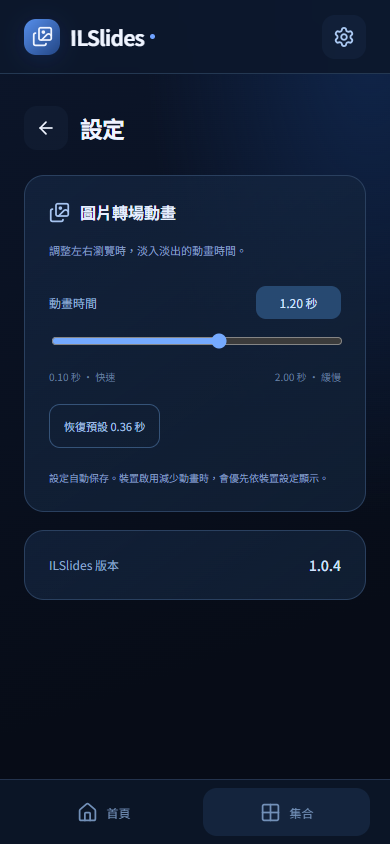
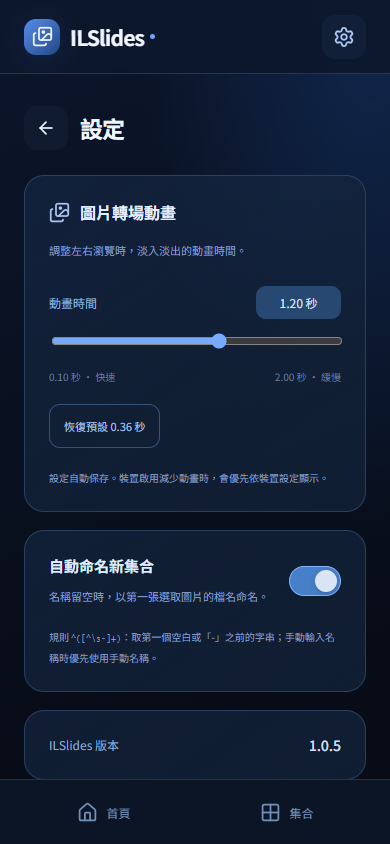
v1.0.5: 新增自動命名設定與編輯集合回頂部按鈕

Changed region(s): [[0.0615, 0.6469, 0.9538, 0.9242]]

diff --git a/src/App.vue b/src/App.vue
@@ -3,7 +3,7 @@ import { computed, ref, watch, onMounted, onUnmounted } from 'vue'
 import { Capacitor } from '@capacitor/core'
 import { App as NativeApp } from '@capacitor/app'
 import { Plus, ArrowLeft, ArrowRight, FolderOpen, Images, X, Pencil, Trash2, ChevronRight, ArrowUp, Grid2X2, Check, Search, Settings, Home, ArrowUpDown } from 'lucide-vue-next'
-import { Folders, loadCollections, loadFolders, uniquePhotos, sortedPhotos, nextIndex, type Collection, type Photo, type SourceFolder } from './library'
+import { Folders, loadCollections, loadFolders, uniquePhotos, suggestCollectionName, sortedPhotos, nextIndex, type Collection, type Photo, type SourceFolder } from './library'
 import PhotoThumb from './PhotoThumb.vue'
 import CoverEditor from './CoverEditor.vue'
 import { drawCover, type CoverSettings } from './cover'
@@ -44,6 +44,8 @@ const name = ref('')
 const selectedFolder = ref<SourceFolder | null>(null)
 const folderPhotos = ref<Photo[]>([])
 const draftPhotos = ref<Photo[]>([])
+const suggestedName = computed(() => !editId.value && preferences.value.autoName ? suggestCollectionName(draftPhotos.value[0]?.name) : '')
+const collectionName = computed(() => name.value.trim() || suggestedName.value)
 const folderBusy = ref(false)
 let folderRequest = 0
 const controls = ref(true)
@@ -143,10 +145,10 @@ function selected(uri:string) { return draftPhotos.value.some(p=>p.uri===uri) }
 function toggle(p:Photo) { draftPhotos.value=selected(p.uri) ? draftPhotos.value.filter(v=>v.uri!==p.uri) : [...draftPhotos.value,p] }
 function selectAll() { draftPhotos.value=uniquePhotos([...draftPhotos.value,...folderPhotos.value]) }
 async function save() {
-  if(!name.value.trim() || !draftPhotos.value.length || busy.value) return
+  if(!collectionName.value || !draftPhotos.value.length || busy.value) return
   const existing=collections.value.find(c=>c.id===editId.value)
   const now=Date.now()
-  const c:Collection={createdAt:existing ? existing.createdAt : now,updatedAt:now,id:editId.value || crypto.randomUUID(),name:name.value.trim(),photos:uniquePhotos(draftPhotos.value),...(draftCover.value && selected(draftCover.value.uri) ? {cover:{...draftCover.value}} : {})}
+  const c:Collection={createdAt:existing ? existing.createdAt : now,updatedAt:now,id:editId.value || crypto.randomUUID(),name:collectionName.value,photos:uniquePhotos(draftPhotos.value),...(draftCover.value && selected(draftCover.value.uri) ? {cover:{...draftCover.value}} : {})}
   const pos=collections.value.findIndex(v=>v.id===c.id)
   if(pos<0) collections.value.push(c); else collections.value[pos]=c
   modal.value=false; ++folderRequest
@@ -184,7 +186,7 @@ onUnmounted(() => { window.removeEventListener('keydown',keyboard); window.remov
 <template>
   <main v-if="!active" class="library">
     <header class="topbar"><a class="brand" href="#/home" aria-label="ILSlides 首頁" @click.prevent="navigate('home')"><span class="brand-icon"><Images :size="21" /></span>ILSlides<span class="brand-dot"></span></a><button class="icon-button settings-button" @click="navigate('settings')" aria-label="開啟設定"><Settings :size="22" /></button></header>
-    <section v-if="page==='settings'" class="settings-page"><div class="settings-heading"><button class="icon-button" @click="navigate(settingsReturn)" aria-label="返回設定前頁面"><ArrowLeft :size="20" /></button><h1>設定</h1></div><section class="setting-card"><div class="setting-title"><Images :size="21" /><h2>圖片轉場動畫</h2></div><p>調整左右瀏覽時，淡入淡出的動畫時間。</p><div class="duration-label"><label for="transition-duration">動畫時間</label><output>{{ (preferences.transitionMs/1000).toFixed(2) }} 秒</output></div><input id="transition-duration" type="range" min="100" max="2000" step="20" :value="preferences.transitionMs" @input="preferences.transitionMs=transitionTime(Number(($event.target as HTMLInputElement).value))" /><div class="duration-scale"><span>0.10 秒 · 快速</span><span>2.00 秒 · 緩慢</span></div><button class="reset-setting" @click="preferences.transitionMs=360">恢復預設 0.36 秒</button><p class="setting-note">設定自動保存。裝置啟用減少動畫時，會優先依裝置設定顯示。</p></section><section class="setting-card version-card"><span>ILSlides 版本</span><strong>{{ version }}</strong></section></section>
+    <section v-if="page==='settings'" class="settings-page"><div class="settings-heading"><button class="icon-button" @click="navigate(settingsReturn)" aria-label="返回設定前頁面"><ArrowLeft :size="20" /></button><h1>設定</h1></div><section class="setting-card"><div class="setting-title"><Images :size="21" /><h2>圖片轉場動畫</h2></div><p>調整左右瀏覽時，淡入淡出的動畫時間。</p><div class="duration-label"><label for="transition-duration">動畫時間</label><output>{{ (preferences.transitionMs/1000).toFixed(2) }} 秒</output></div><input id="transition-duration" type="range" min="100" max="2000" step="20" :value="preferences.transitionMs" @input="preferences.transitionMs=transitionTime(Number(($event.target as HTMLInputElement).value))" /><div class="duration-scale"><span>0.10 秒 · 快速</span><span>2.00 秒 · 緩慢</span></div><button class="reset-setting" @click="preferences.transitionMs=360">恢復預設 0.36 秒</button><p class="setting-note">設定自動保存。裝置啟用減少動畫時，會優先依裝置設定顯示。</p></section><section class="setting-card auto-name-setting"><div class="setting-toggle-row"><div><h2>自動命名新集合</h2><p>名稱留空時，以第一張選取圖片的檔名命名。</p></div><button role="switch" aria-label="自動命名新集合" :aria-checked="preferences.autoName" :class="{enabled:preferences.autoName}" @click="preferences.autoName=!preferences.autoName"><span></span></button></div><p class="setting-note">規則 <code>^([^\s-]+)</code>：取第一個空白或「-」之前的字串；手動輸入名稱時優先使用手動名稱。</p></section><section class="setting-card version-card"><span>ILSlides 版本</span><strong>{{ version }}</strong></section></section>
     <template v-else>
     <section v-if="page==='home'" class="stats"><div><strong>{{ collections.length.toString().padStart(2,'0') }}</strong><span>圖片集合</span></div><div class="stat-divider"></div><div><strong>{{ total.toLocaleString() }}</strong><span>張照片</span></div><span class="offline"><span></span>僅在裝置上讀取</span></section>
     <section v-if="page==='collections'" class="source-section"><div class="source-heading"><span><FolderOpen :size="15" />常用資料夾</span><button @click="edit()">管理／挑選圖片<ChevronRight :size="15" /></button></div><div class="folder-chips"><button v-for="f in folders" :key="f.uri" @click="edit(undefined,f)"><FolderOpen :size="14" />{{ f.name }}</button><button v-if="!folders.length" @click="edit()"><Plus :size="14" />記住圖片資料夾</button></div></section>
@@ -214,6 +216,7 @@ onUnmounted(() => { window.removeEventListener('keydown',keyboard); window.remov
       <div class="sheet-handle"></div><div class="sheet-heading"><div><span class="eyebrow">CURATE YOUR COLLECTION</span><h2 id="sheet-title">{{ editId ? '編輯集合' : '建立新的集合' }}</h2></div><button class="icon-button" @click="modal=false" aria-label="關閉"><X :size="21" /></button></div>
       <div class="editor-scroll-wrap"><div ref="editorScroll" class="editor-scroll" @scroll.passive="updateEditorScroll">
         <label class="field-label" for="collection-name">集合名稱</label><input id="collection-name" v-model="name" maxlength="60" placeholder="例如：旅行片刻、日常光影" />
+        <p v-if="!editId && !name.trim() && draftPhotos.length" class="auto-name-hint">{{ suggestedName ? '將自動命名為：' + suggestedName : preferences.autoName ? '檔名無法套用規則，請輸入集合名稱。' : '自動命名已停用，請輸入集合名稱。' }}</p>
         <label class="field-label">集合封面</label><button class="folder-select" :disabled="!draftPhotos.length" @click="coverEditor=true"><Images :size="23" /><span><strong>{{ draftCover && selected(draftCover.uri) ? '調整已選封面' : '選擇封面與調整視窗' }}</strong><small>從集合圖片挑選，拖曳及縮放封面範圍</small></span><ChevronRight :size="18" /></button>
         <label class="field-label">常用資料夾</label>
         <div class="folder-chips"><button v-for="f in folders" :key="f.uri" :class="{chosen:selectedFolder?.uri===f.uri}" @click="browseFolder(f)"><FolderOpen :size="14" />{{ f.name }}</button></div>
@@ -225,9 +228,9 @@ onUnmounted(() => { window.removeEventListener('keydown',keyboard); window.remov
         <p class="sheet-note">可切換資料夾繼續挑選；集合只保留你勾選的圖片。<br />資料夾新增圖片不會自動加入集合，原始檔案不會修改。</p>
 
       </div>
-      <button v-if="!editId && editorScrolled" class="editor-top-button" @click="editorTop" aria-label="回到新增集合頂部"><ArrowUp :size="22" /></button></div>
+      <button v-if="editorScrolled" class="editor-top-button" @click="editorTop" :aria-label="editId ? '回到編輯集合頂部' : '回到新增集合頂部'"><ArrowUp :size="22" /></button></div>
       <div v-if="editId" class="editor-delete"><button v-if="!deleting" class="delete-button" @click="deleting=true"><Trash2 :size="16" />刪除集合</button><div v-else class="delete-confirm"><p>確定刪除此集合？原始圖片會保留。</p><button @click="deleting=false">取消刪除</button><button class="danger" @click="remove">確定刪除</button></div></div>
-      <button class="primary save-button" :disabled="!name.trim() || !draftPhotos.length || busy" @click="save">{{ editId ? '儲存變更' : '建立集合' }} · {{ draftPhotos.length }} 張<ArrowRight :size="18" /></button>
+      <button class="primary save-button" :disabled="!collectionName || !draftPhotos.length || busy" @click="save">{{ editId ? '儲存變更' : '建立集合' }} · {{ draftPhotos.length }} 張<ArrowRight :size="18" /></button>
     </section>
   </div>
   <CoverEditor v-if="coverEditor && draftPhotos.length" :photos="draftPhotos" :initial="draftCover && selected(draftCover.uri) ? draftCover : undefined" @close="coverEditor=false" @save="draftCover=$event; coverEditor=false" />

diff --git a/src/style.css b/src/style.css
@@ -6,3 +6,5 @@
 .library{padding-top:calc(94px + env(safe-area-inset-top))}.topbar{position:fixed;top:0;left:0;right:0;z-index:15;background:#0c172bec;backdrop-filter:blur(20px);border-bottom:1px solid #243852;padding:calc(14px + env(safe-area-inset-top)) max(24px,calc((100vw - 920px)/2)) 14px;height:calc(74px + env(safe-area-inset-top))}.settings-button{color:#aac8f2;background:#1b305050}.library>.stats{margin-top:10px}.bottom-bar{padding:8px max(20px,calc((100vw - 920px)/2)) calc(8px + env(safe-area-inset-bottom));z-index:15;gap:16px}.bottom-bar button{flex:1;display:flex;align-items:center;justify-content:center;gap:9px;min-height:48px;border-radius:14px;color:#7290b8;font-size:12px}.bottom-bar button.selected{color:#b0cfff;background:#203a5d85}.sort-toolbar{display:flex;align-items:center;gap:10px;margin:0 0 18px;color:#89a9d3;font-size:11px}.sort-toolbar select{min-width:0;background:#152a47;border:1px solid #355278;border-radius:11px;padding:12px;color:#c1d4f1;font:inherit;min-height:44px;flex:1}.card-copy p+p{margin-top:6px}.settings-heading{display:flex;align-items:center;gap:12px;margin:12px 0 25px}.settings-heading h1{font-size:23px;margin:0}.setting-card{padding:24px;border:1px solid #2a405f;border-radius:20px;background:linear-gradient(145deg,#172b4a90,#101e32);margin-bottom:18px}.setting-title{display:flex;align-items:center;gap:10px;color:#a7c4f0}.setting-title h2{font-size:16px;font-weight:600;color:#e5efff;margin:0}.setting-card p{font-size:11px;color:#849fc3;line-height:1.9;margin:16px 0 25px}.duration-label,.duration-scale{display:flex;justify-content:space-between;align-items:center;font-size:12px;color:#93afd6}.duration-label output{background:#274971;padding:8px 12px;border-radius:10px;color:#d0e3ff;min-width:85px;text-align:center}.duration-scale{font-size:10px;color:#647f9f;margin:3px 0 20px}.reset-setting{padding:11px 14px;border:1px solid #355378;border-radius:11px;color:#a4c0e8;font-size:11px;min-height:44px}.setting-card .setting-note{font-size:10px;margin:20px 0 0}.version-card{display:flex;justify-content:space-between;align-items:center;font-size:12px;color:#8ca8cd}.version-card strong{color:#d0e1fb;font-size:14px;font-weight:500}.dissolve-enter-active,.dissolve-leave-active{transition-duration:var(--transition-time,360ms)}@media(min-width:650px){.library{padding-top:calc(94px + env(safe-area-inset-top))}}@media(prefers-reduced-motion:reduce){.dissolve-enter-active,.dissolve-leave-active{transition:none!important}}
 
 .editor-scroll-wrap{position:relative;flex:1;min-height:0}.editor-scroll-wrap .editor-scroll{height:100%;padding-bottom:74px}.editor-top-button{position:absolute;right:5px;bottom:14px;width:48px;height:48px;border-radius:50%;display:grid;place-items:center;background:#254d8088;border:1px solid #96bcf080;backdrop-filter:blur(10px);color:#d4e5ff;box-shadow:0 4px 18px #0004;z-index:2}
+
+.setting-toggle-row{display:flex;align-items:center;gap:18px}.setting-toggle-row>div{flex:1}.setting-toggle-row h2{font-size:15px;margin:0;color:#dfebff;font-weight:600}.setting-toggle-row p{margin:10px 0 0}.setting-toggle-row button{flex-shrink:0;width:52px;min-height:44px;position:relative;display:grid;align-items:center;padding:0 4px}.setting-toggle-row button:before{content:"";position:absolute;inset:7px 0;border-radius:20px;background:#30435f;border:1px solid #526784}.setting-toggle-row button.enabled:before{background:#477fc8;border-color:#80b5fb}.setting-toggle-row button>span{position:relative;width:22px;height:22px;border-radius:50%;background:#d9e5f5;transition:transform .2s;box-shadow:0 2px 6px #0003}.setting-toggle-row button.enabled>span{transform:translateX(22px)}.auto-name-setting .setting-note{word-break:break-word}.auto-name-hint{margin:10px 0 0;font-size:11px;color:#8fb5eb;line-height:1.7;overflow-wrap:anywhere}

diff --git a/src/library.test.ts b/src/library.test.ts
@@ -1,11 +1,24 @@
 import { describe, expect, it, beforeEach } from 'vitest'
-import { nextIndex, sortedPhotos, uniquePhotos, loadCollections, loadFolders } from './library'
+import { nextIndex, sortedPhotos, uniquePhotos, suggestCollectionName, loadCollections, loadFolders } from './library'
 const storage=new Map<string,string>()
 beforeEach(() => {
  storage.clear()
  Object.assign(globalThis,{localStorage:{getItem:(key:string)=>storage.get(key) ?? null}})
 })
 describe('集合瀏覽', () => {
+ it('按指定正則取空白或連字號前的檔名',()=>{
+  expect(suggestCollectionName('旅行 001.jpg')).toBe('旅行')
+  expect(suggestCollectionName('旅行-001.jpg')).toBe('旅行')
+  expect(suggestCollectionName('旅行	001.jpg')).toBe('旅行')
+ })
+ it('無分隔符時保留完整檔名，包含副檔名',()=>{
+  expect(suggestCollectionName('photo.jpg')).toBe('photo.jpg')
+ })
+ it('未選圖片或第一字元無法匹配時不產生名稱',()=>{
+  expect(suggestCollectionName()).toBe('')
+  expect(suggestCollectionName(' leading.jpg')).toBe('')
+  expect(suggestCollectionName('-leading.jpg')).toBe('')
+ })
  it('依檔名自然排序並保留原清單', () => {
   const source=[{name:'photo10.jpg',uri:'10'},{name:'photo2.jpg',uri:'2'},{name:'photo1.jpg',uri:'1'}]
   expect(sortedPhotos(source).map(p=>p.uri)).toEqual(['1','2','10']); expect(source[0]!.uri).toBe('10')

diff --git a/src/preferences.test.ts b/src/preferences.test.ts
@@ -19,10 +19,14 @@ describe('集合排序與轉場設定',()=>{
   expect(transitionTime(-1)).toBe(100);expect(transitionTime(9000)).toBe(2000)
   expect(transitionTime(NaN)).toBe(360);expect(transitionTime(361)).toBe(360)
  })
+ it('停用自動命名後重新載入仍保持停用',()=>{
+  Object.assign(globalThis,{localStorage:{getItem:()=>JSON.stringify({autoName:false})}})
+  expect(loadPreferences().autoName).toBe(false)
+ })
  it('載入有效設定並回退損壞設定',()=>{
-  Object.assign(globalThis,{localStorage:{getItem:()=>JSON.stringify({transitionMs:1200,sortKey:'updatedAt',sortDirection:'desc'})}})
-  expect(loadPreferences()).toEqual({transitionMs:1200,sortKey:'updatedAt',sortDirection:'desc'})
+  Object.assign(globalThis,{localStorage:{getItem:()=>JSON.stringify({transitionMs:1200,sortKey:'updatedAt',sortDirection:'desc',autoName:true})}})
+  expect(loadPreferences()).toEqual({transitionMs:1200,sortKey:'updatedAt',sortDirection:'desc',autoName:true})
   Object.assign(globalThis,{localStorage:{getItem:()=>'{invalid'}})
-  expect(loadPreferences()).toEqual({transitionMs:360,sortKey:'name',sortDirection:'asc'})
+  expect(loadPreferences()).toEqual({transitionMs:360,sortKey:'name',sortDirection:'asc',autoName:true})
  })
 })

diff --git a/src/preferences.ts b/src/preferences.ts
@@ -8,9 +8,9 @@ export function sortCollections(collections:Collection[], key:SortKey, direction
 export function transitionTime(value:unknown) {
  return typeof value==='number' && Number.isFinite(value) ? Math.max(100,Math.min(2000,Math.round(value/20)*20)) : 360
 }
-export function loadPreferences():{transitionMs:number;sortKey:SortKey;sortDirection:SortDirection} {
+export function loadPreferences():{transitionMs:number;sortKey:SortKey;sortDirection:SortDirection;autoName:boolean} {
  try {
   const value=JSON.parse(localStorage.getItem('ilslides.preferences') || '{}')
-  return {transitionMs:transitionTime(value.transitionMs),sortKey:['name','createdAt','updatedAt'].includes(value.sortKey)?value.sortKey:'name',sortDirection:value.sortDirection==='desc'?'desc':'asc'}
- } catch { return {transitionMs:360,sortKey:'name',sortDirection:'asc'} }
+  return {transitionMs:transitionTime(value.transitionMs),sortKey:['name','createdAt','updatedAt'].includes(value.sortKey)?value.sortKey:'name',sortDirection:value.sortDirection==='desc'?'desc':'asc',autoName:value.autoName!==false}
+ } catch { return {transitionMs:360,sortKey:'name',sortDirection:'asc',autoName:true} }
 }

diff --git a/src/library.ts b/src/library.ts
@@ -17,6 +17,9 @@ export function nextIndex(index: number, delta: number, length: number) {
 export function uniquePhotos(photos: Photo[]) {
   return [...new Map(photos.map(p => [p.uri, {uri:p.uri, name:p.name}])).values()]
 }
+export function suggestCollectionName(fileName?:string) {
+  return fileName?.match(/^([^\s-]+)/)?.[1] || ''
+}
 function read(key: string): unknown[] {
   try { const value=JSON.parse(localStorage.getItem(key) || '[]'); return Array.isArray(value) ? value : [] } catch { return [] }
 }

diff --git a/AGENTS.md b/AGENTS.md
@@ -11,6 +11,14 @@
 
 ## 目前開發進度
 
+### v1.0.5（2026-10-13）
+
+- 編輯集合與新增集合共用半透明回頂部按鈕，離開捲動區頂部時出現。
+- 新增集合名稱留空時，自動以第一張選取圖片檔名套用 `^([^s-]+)` 命名，取空白／連字號之前的字串。
+- 自動命名設定預設啟用，可停用並持久保存；手動名稱優先，已有集合不自動改名。
+- 未選圖、檔名無法匹配或停用時保留名稱驗證，不產生無效集合。
+- 19 項單元測試、手機 UI 回頂部／命名／選取順序／手動優先／開關保存及既有流程、Android 建置／lint／簽章驗證通過；未接 Android 實機。
+
 ### v1.0.4（2026-10-13）
 
 - 集合頁 Android 系統返回鍵：不在頁首時立即回頂部，在頁首時退出 App。
@@ -28,11 +36,3 @@
 - 新建／編輯集合記錄時間；舊集合缺少日期時標示未記錄。
 - Hash 頁面路徑與 Android 返回鍵支援設定／集合導覽。
 - 15 項單元測試、手機 UI 導覽／首頁上限／排序／設定保存及真實 CSS 轉場時間、Android 建置與 lint 通過；未接 Android 實機。
-
-### v1.0.2（2026-10-12）
-
-- 從集合圖片選擇封面；固定 4:3 裁切視窗，拖曳調整位置、縮放 1～3 倍及重設。
-- 封面保存圖片 URI 與裁切參數，重開後重建預覽，不修改原圖。
-- 移除首頁四行介紹文字，新增依集合名稱即時搜尋、清除與無結果提示。
-- 編輯集合底部固定刪除鍵，確認後刪除此集合、保留原始圖片。
-- 11 項單元測試、手機 UI 封面／搜尋／刪除與既有流程、Android 建置及 lint 通過；未連接 Android 實機。

diff --git a/docs/release-v1.0.5.md b/docs/release-v1.0.5.md
@@ -1,0 +1,12 @@
+ILSlides v1.0.5
+
+- 編輯集合也提供半透明回頂部按鈕，捲動離開頂部時出現。
+- 新集合名稱留空時，自動採第一張選取圖片檔名，依 ^([^s-]+) 取第一個空白或 - 前的字串。
+- 例：旅行-001.jpg、旅行 001.jpg → 旅行；沒有分隔符時保留完整檔名，包含副檔名。
+- 設定頁新增「自動命名新集合」開關，預設啟用並自動保存。手動名稱優先，已有集合不自動改名。
+
+下載 ILSlides1-0-5.apk，可覆蓋安裝；Android 9 以上，versionName 1.0.5、versionCode 6，沿用相同 debug 簽章。
+
+驗證：19 項單元測試與手機 UI 編輯回頂部／自動命名／選取順序／手動優先／停用與重開保存，以及既有功能回歸、Android 建置／lint／APK 簽章驗證通過。原生 bridge 使用模擬資料，未接 Android 實機。
+
+附 SHA256SUMS.txt。
